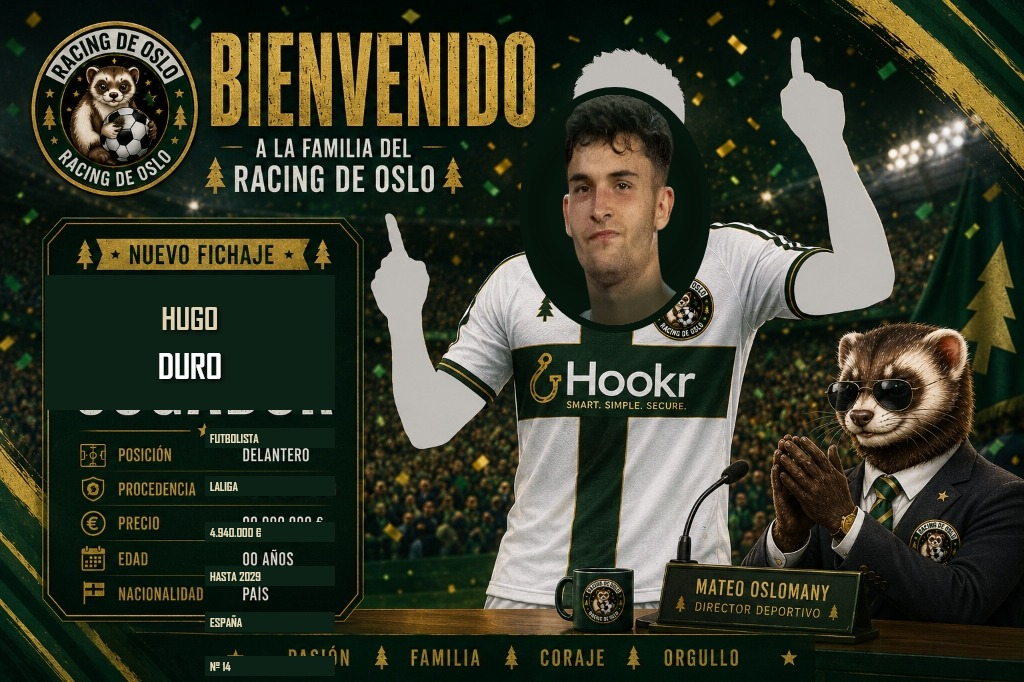
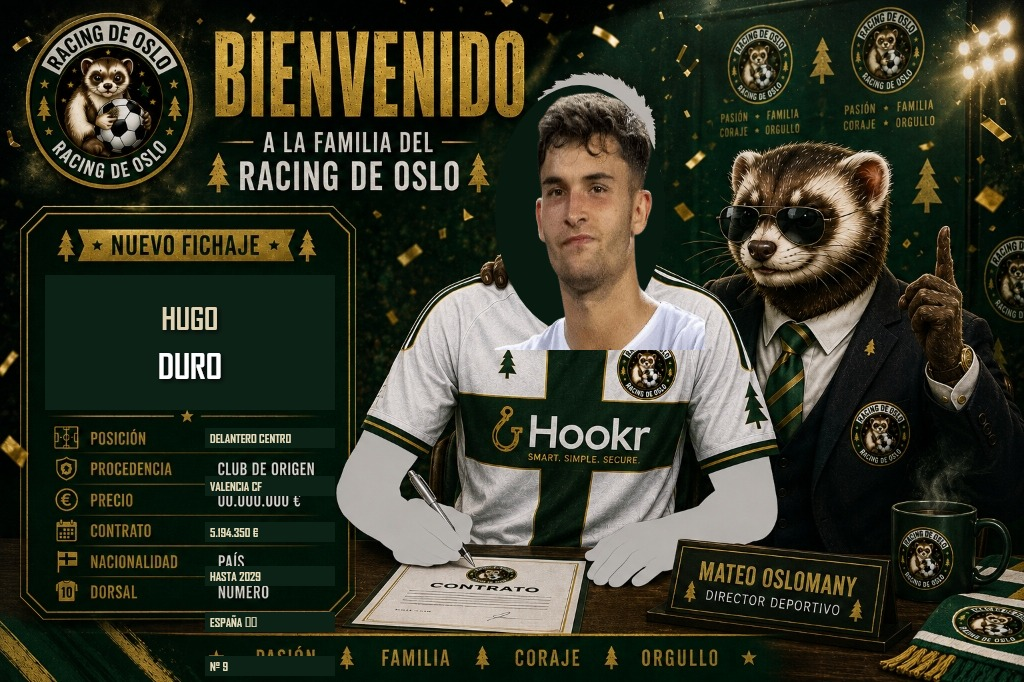
feat(news): Clean player bust PNG placement without masks, exact bid pricing, distinct templates, and Valverde as featured article

diff --git a/src/imageGen.js b/src/imageGen.js
@@ -87,78 +87,73 @@ export async function ensurePlayerPhoto(playerId) {
  * Soporta todas las plantillas oficiales:
  * 'signing', 'sale', 'market', 'finance', 'mvp', 'medical', 'rumors', 'preview', 'chronicle', 'club', 'analysis'
  */
+let lastUsedTemplateIndex = 0;
+const TEMPLATES = ['front', 'contract', 'jersey'];
+
 export async function generateSigningGraphic(playerName, price, playerId, extraData = {}) {
   const width = 1024;
   const height = 682;
   const canvas = createCanvas(width, height);
   const ctx = canvas.getContext('2d');
 
-  const TEMPLATES = ['contract', 'front', 'jersey'];
-  const templateType = extraData.templateType || TEMPLATES[Math.floor(Math.random() * TEMPLATES.length)];
+  let templateType = extraData.templateType;
+  if (!templateType) {
+    templateType = TEMPLATES[lastUsedTemplateIndex % TEMPLATES.length];
+    lastUsedTemplateIndex++;
+  }
 
-  let templateFile = 'template_signing_contract.jpg';
-  let headCoords = { cx: 578, cy: 220, rx: 90, ry: 120 };
+  let templateFile = 'template_signing_front.jpg';
+  let headX = 505;
+  let headY = 60;
+  let headW = 230;
+  let headH = 280;
 
-  if (templateType === 'front') {
-    templateFile = 'template_signing_front.jpg';
-    headCoords = { cx: 615, cy: 210, rx: 88, ry: 115 };
+  if (templateType === 'contract') {
+    templateFile = 'template_signing_contract.jpg';
+    headX = 475;
+    headY = 70;
+    headW = 230;
+    headH = 280;
   } else if (templateType === 'jersey') {
     templateFile = 'template_signing_jersey.jpg';
-    headCoords = { cx: 590, cy: 190, rx: 82, ry: 110 };
+    headX = 485;
+    headY = 50;
+    headW = 220;
+    headH = 270;
   }
 
   const bgPath = path.resolve(`web/public/media/templates/${templateFile}`);
   const templateImg = await loadImage(bgPath);
   ctx.drawImage(templateImg, 0, 0, width, height);
 
-  // 1. CARA DEL JUGADOR
+  // 1. Tintar fondo de la silueta en verde oscuro para eliminar el halo blanco
+  ctx.save();
+  ctx.fillStyle = '#081a10';
+  if (templateType === 'front') {
+    ctx.beginPath();
+    ctx.ellipse(615, 200, 85, 125, 0, 0, Math.PI * 2);
+    ctx.fill();
+  } else if (templateType === 'contract') {
+    ctx.beginPath();
+    ctx.ellipse(580, 210, 85, 125, 0, 0, Math.PI * 2);
+    ctx.fill();
+  } else if (templateType === 'jersey') {
+    ctx.beginPath();
+    ctx.ellipse(590, 185, 80, 115, 0, 0, Math.PI * 2);
+    ctx.fill();
+  }
+  ctx.restore();
+
+  // 2. Foto oficial del jugador tal cual (PNG limpio sobre la silueta)
   if (playerId) {
     await ensurePlayerPhoto(playerId);
     const photoPath = path.resolve(`web/public/media/players/${playerId}.png`);
     if (fs.existsSync(photoPath)) {
       try {
         const faceImg = await loadImage(photoPath);
-
-        // Oscurecer fondo blanco de la silueta
-        ctx.save();
-        ctx.beginPath();
-        ctx.ellipse(headCoords.cx, headCoords.cy, headCoords.rx + 8, headCoords.ry + 8, 0, 0, Math.PI * 2);
-        ctx.fillStyle = '#06160c';
-        ctx.fill();
-        ctx.restore();
-
-        // Recorte elíptico
-        ctx.save();
-        ctx.beginPath();
-        ctx.ellipse(headCoords.cx, headCoords.cy, headCoords.rx, headCoords.ry, 0, 0, Math.PI * 2);
-        ctx.clip();
-
-        const faceWidth = headCoords.rx * 2.5;
-        const faceHeight = headCoords.ry * 2.35;
-        ctx.drawImage(
-          faceImg, 
-          headCoords.cx - faceWidth / 2, 
-          headCoords.cy - faceHeight / 2 - 4, 
-          faceWidth, 
-          faceHeight
-        );
-        ctx.restore();
-
-        // Viñeta de integración con el cuello
-        ctx.save();
-        const grad = ctx.createRadialGradient(
-          headCoords.cx, headCoords.cy, headCoords.rx * 0.75,
-          headCoords.cx, headCoords.cy, headCoords.rx * 1.05
-        );
-        grad.addColorStop(0, 'rgba(0,0,0,0)');
-        grad.addColorStop(1, 'rgba(6,20,12,0.65)');
-        ctx.fillStyle = grad;
-        ctx.beginPath();
-        ctx.ellipse(headCoords.cx, headCoords.cy, headCoords.rx, headCoords.ry, 0, 0, Math.PI * 2);
-        ctx.fill();
-        ctx.restore();
+        ctx.drawImage(faceImg, headX, headY, headW, headH);
       } catch (e) {
-        console.warn('[SIGNING GFX] Error cara:', e.message);
+        console.warn('[SIGNING GFX] Error al cargar foto:', e.message);
       }
     }
   }
